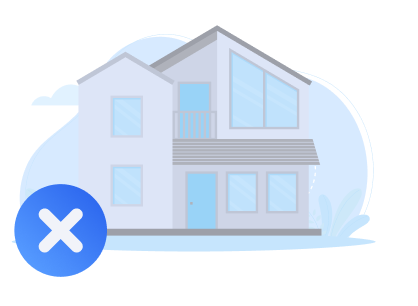
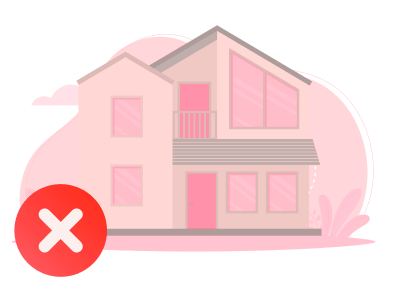
Pushed

diff --git a/public/assets/global/css/style.css b/public/assets/global/css/style.css
@@ -221,11 +221,6 @@ img {
 .no_data_pos img {
     height: 320px;
 }
-.no_data img
-{
-    filter: hue-rotate(133deg);
-}
-
 /************ Header Area Start
 *************************************************************/
 .entry_header_control {

diff --git a/resources/views/customer/agent_messages/message_home.blade.php b/resources/views/customer/agent_messages/message_home.blade.php
@@ -11,7 +11,6 @@
   }
   .no_data img{
       height: 113px;
-      filter: hue-rotate(132deg);
   }
   .property_data{
       text-align: center
